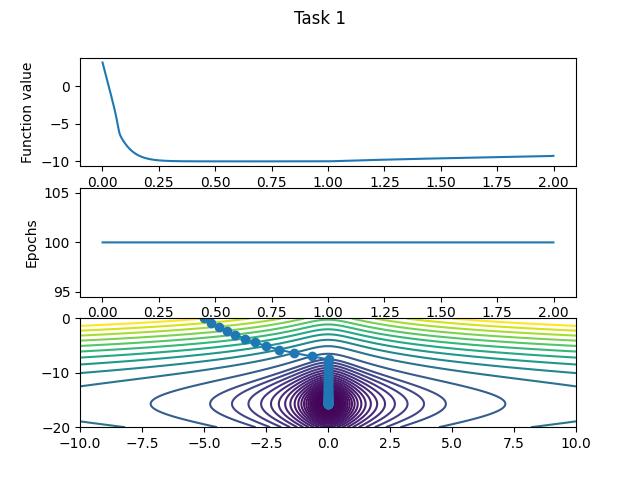
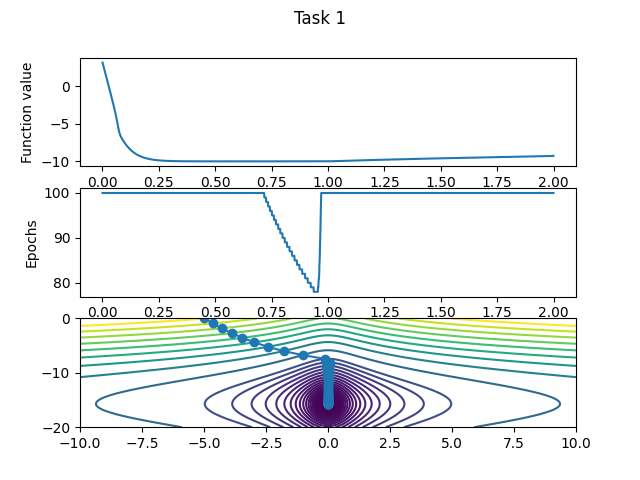
Added task3 and task5. Fixed minor bugs.

diff --git a/task3.py b/task3.py
@@ -1,0 +1,93 @@
+import matplotlib.pyplot as plt
+import numpy as np
+
+
+def f(xs):
+    return 5 * np.log(1 + xs[0] ** 2) + 10 * np.sin(xs[1] / 10)
+
+
+def grad(xs):
+    return np.array([10 * xs[0] / (1 + xs[0] ** 2), np.cos(xs[1] / 10)])
+
+
+def golden_section(func, l, r):
+    eps = 1e-1
+    phi = (1 + np.sqrt(5)) / 2
+    point_l = l
+    point_r = r
+    while point_r - point_l > eps:
+        fraction = (point_r - point_l) / phi
+        new_l = point_r - fraction
+        new_r = point_l + fraction
+        f_new_l = golden_section_borders.get(new_l, None)
+        f_new_r = golden_section_borders.get(new_r, None)
+        if not f_new_l:
+            f_new_l = func(new_l)
+            golden_section_borders[new_l] = f_new_l
+        if not f_new_r:
+            f_new_r = func(new_r)
+            golden_section_borders[new_r] = f_new_r
+        if f_new_l > f_new_r:
+            point_l = new_l
+        else:
+            point_r = new_r
+    return (point_l + point_r) / 2
+
+
+def golden_section_step_func(_0, point, vector):
+    def point_value(alpha):
+        return f(point - alpha * vector)
+
+    alpha = 1.0
+    origin_value = point_value(0)
+    alpha_value = point_value(alpha)
+    if origin_value > alpha_value:
+        for i in range(10):
+            alpha *= 2
+            next_alpha_value = point_value(alpha)
+            if next_alpha_value > alpha_value:
+                break
+            alpha_value = next_alpha_value
+    global golden_section_borders
+    global func_calls_count
+    func_calls_count = func_calls_count + len(golden_section_borders)
+    golden_section_borders = {}
+    return golden_section(point_value, 0.0, alpha)
+
+
+def gradient_descent(step_func):
+    epoch = 100
+    point = np.array([-5, 0])
+    points = []
+
+    for i in range(1, epoch):
+        vector = grad(point)
+        next_point = point - step_func(i, point, vector) * np.array(vector)
+        points.append([i, f(point)])
+        point = next_point
+    return points
+
+
+golden_section_borders = {}
+func_calls_count = 0
+
+plots = []
+plt.xlabel("Iterations count")
+plt.ylabel("Function value")
+
+for learning_rate, label in [
+    [(lambda iter, _0, _1: 0.25), "const 0.25"],
+    [golden_section_step_func, "golden section"]
+]:
+    points = gradient_descent(learning_rate)
+    points = np.array(points).T
+    plots.append(plt.plot(points[0], points[1], label=label)[0])
+
+print("Function calls for const: " + str(99))
+print("Function calls for golden section: " + str(func_calls_count))
+
+plt.suptitle('Task3')
+plt.legend(handles=plots)
+plt.savefig('task3.png')
+
+

diff --git a/task5.py b/task5.py
@@ -1,0 +1,47 @@
+import matplotlib.pyplot as plt
+import numpy as np
+
+
+def gradient_descent(grad, start_point, step_func):
+    eps = 1e-5
+    epoch = 100
+    point = np.array(start_point)
+
+    points = np.array([point])
+
+    for i in range(1, epoch):
+        vector = grad(point)
+        next_point = point - step_func(i) * np.array(vector)
+        distance = np.linalg.norm(point - next_point)
+
+        if distance < eps:
+            return points
+
+        point = next_point
+        points = np.append(points, [point], axis=0)
+    return points
+
+
+exp_step_func = (lambda iter: 1 / (1 + iter // 2))
+
+f1 = (lambda xs: (xs[0] + 2) ** 2 + 1.5 * (xs[1] - 2) ** 2)
+grad1 = (lambda xs: np.array([2 * (xs[0] + 2), 3 * (xs[1] - 2)]))
+
+f2 = (lambda xs: 4 * (xs[0] / 2 + 2) ** 2 + 2 * (xs[1] / 4 - 2) ** 2)
+grad2 = (lambda xs: np.array([4 * (xs[0] / 2 + 2), 1 * (xs[1] / 4 - 2)]))
+
+fig, axs = plt.subplots(2)
+fig.suptitle('Task 5')
+tX = np.linspace(-6, 6, 1000)
+tY = np.linspace(-2, 10, 1000)
+X, Y = np.meshgrid(tX, tY)
+
+points1 = gradient_descent(grad1, [5, 5], exp_step_func)
+axs[0].plot(points1[:, 0], points1[:, 1], 'o-')
+axs[0].contour(X, Y, f1([X, Y]), levels=sorted([f1(p) for p in points1]))
+
+points2 = gradient_descent(grad2, [5, 5], exp_step_func)
+axs[1].plot(points2[:, 0], points2[:, 1], 'o-')
+axs[1].contour(X, Y, f2([X, Y]), levels=sorted([f2(p) for p in points2]))
+
+plt.savefig('task5.png')

diff --git a/task1.py b/task1.py
@@ -3,20 +3,19 @@ import numpy as np
 
 
 def f(xs):
-    return 5 * np.log(1 + xs[0] ** 2) + 10 * np.sin(xs[1] / 10)
+    return np.log(1 + xs[0] ** 2) + 10 * np.sin(xs[1] / 10)
 
 
 def grad(xs):
-    return np.array([10 * xs[0] / (1 + xs[0] ** 2), np.cos(xs[1] / 10)])
+    return np.array([2 * xs[0] / (1 + xs[0] ** 2), np.cos(xs[1] / 10)])
 
 
 def gradient_descent(learning_rate):
-    eps = 1e-5
+    eps = 1e-3
     epoch = 100
     point = np.array([-5, 0])
 
-    points = np.zeros((epoch, 2))
-    points[0] = point
+    points = np.array([point])
 
     for i in range(1, epoch):
         next_point = point - learning_rate * np.array(grad(point))
@@ -25,7 +24,8 @@ def gradient_descent(learning_rate):
         if distance < eps:
             return i, point, points
 
-        points[i] = point = next_point
+        point = next_point
+        points = np.append(points, [point], axis=0)
     return epoch, point, points
 
 
@@ -49,7 +49,7 @@ axs[1].set_ylabel("Epochs")
 axs[1].plot(learning_rate_iterations, final_epochs)
 
 # Best result:
-epochs, point, points = gradient_descent(0.75)
+epochs, point, points = gradient_descent(0.9)
 tX = np.linspace(-10, 10, 1000)
 tY = np.linspace(-20, 0, 1000)
 X, Y = np.meshgrid(tX, tY)
